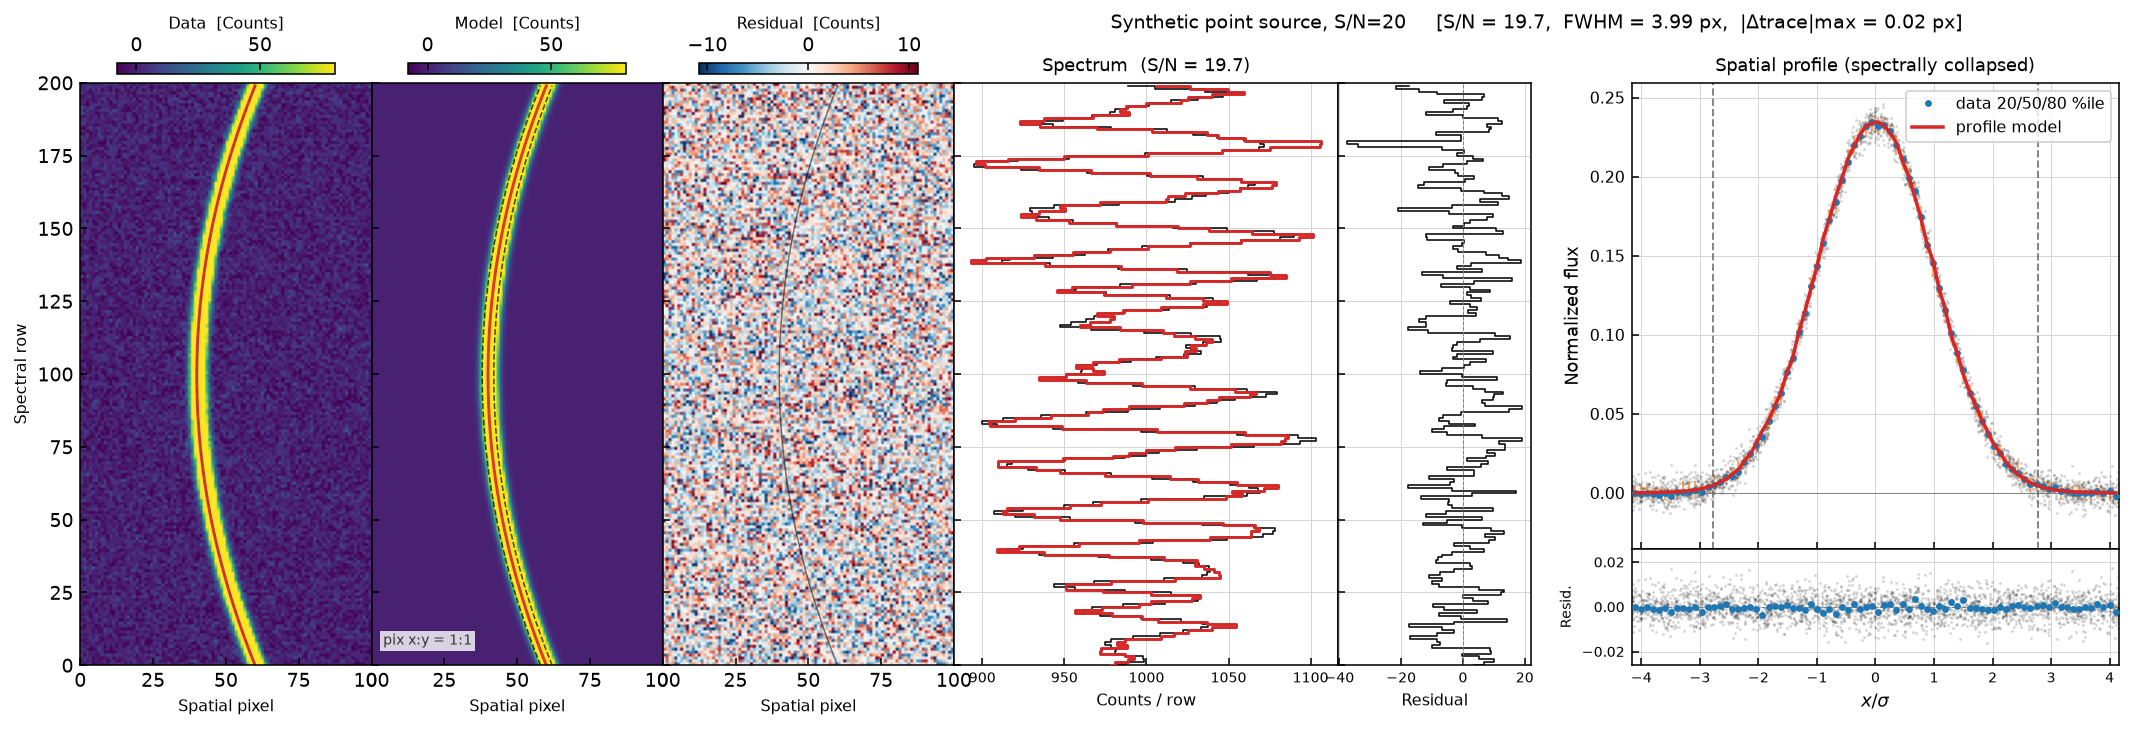
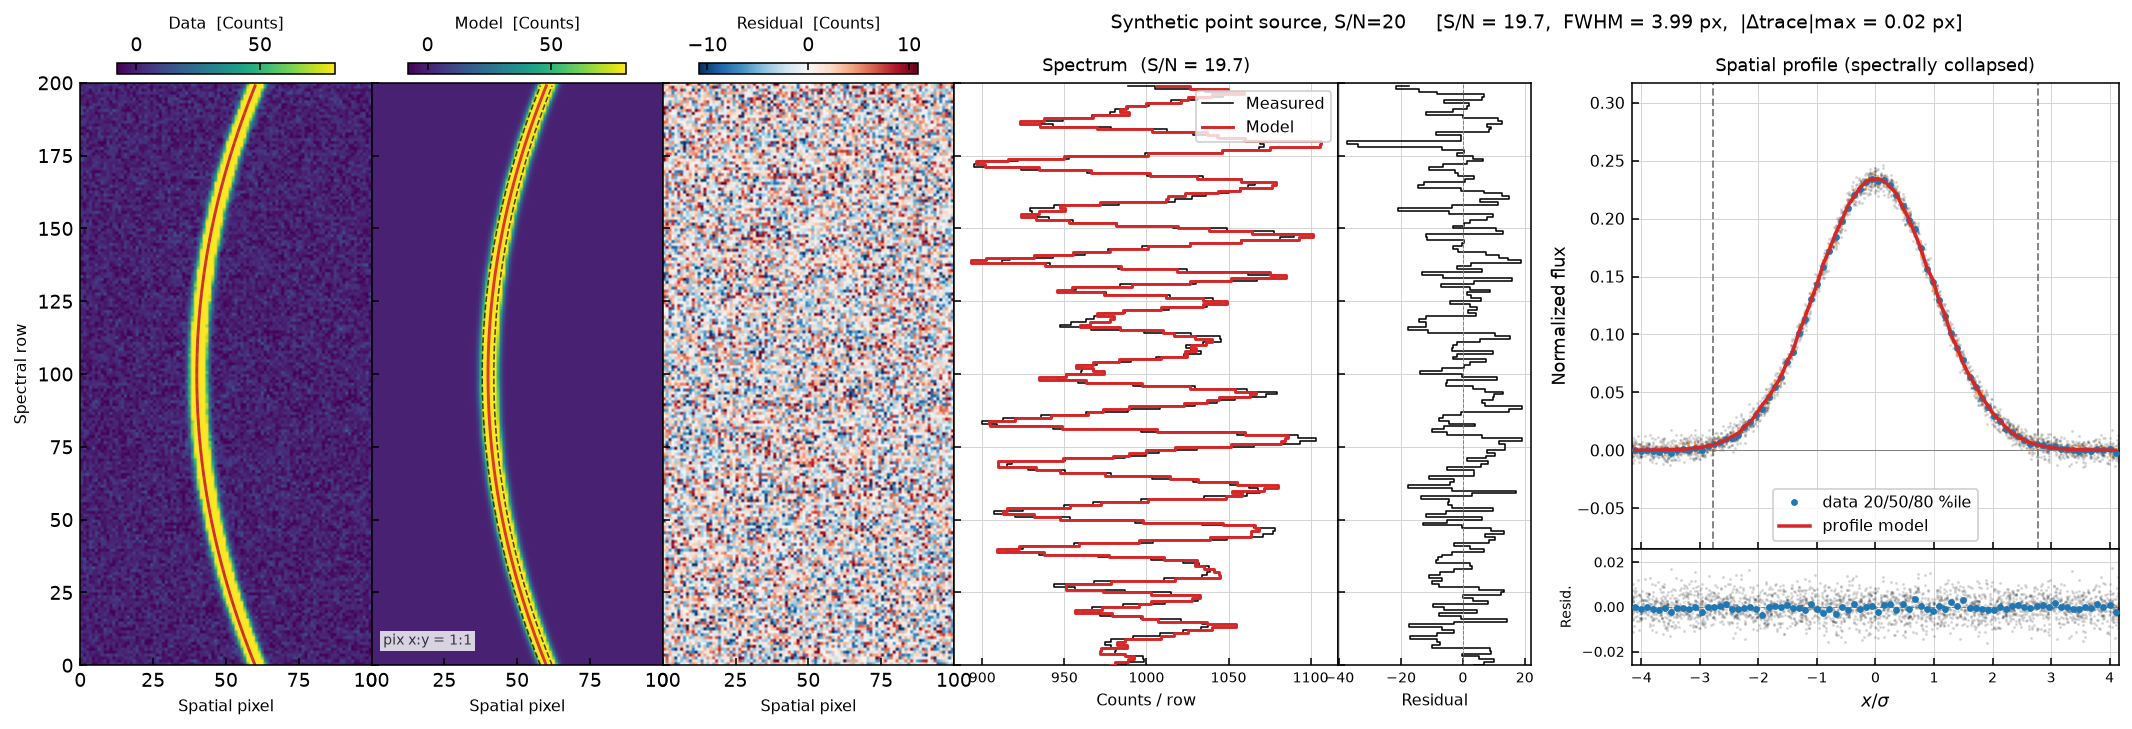
testing

diff --git a/pypeit/core/spatialprofile.py b/pypeit/core/spatialprofile.py
@@ -1298,7 +1298,6 @@ def _fit_profile_qa(
     ax_data.plot(trace_in, row_idx, '--', color='C0', lw=1.0, alpha=0.85)
     ax_data.plot(xnew,     row_idx, '-',  color='C3',  lw=1.5, alpha=0.90)
     ax_model.plot(xnew, row_idx, '-', color='C3', lw=1.5, alpha=0.90)
-    ax_resid.plot(xnew, row_idx, '-', color='k',   lw=0.8, alpha=0.50)
 
     ax_model.plot(xnew - fwhmfit / 2, row_idx, '--', color='black', lw=0.8, alpha=0.7)
     ax_model.plot(xnew + fwhmfit / 2, row_idx, '--', color='black', lw=0.8, alpha=0.7)
@@ -1307,13 +1306,14 @@ def _fit_profile_qa(
     # Spectrum panel
     # -----------------------------------------------------------------------
     ax_spec = fig.add_axes([spec_l, img_bot, spec_w, img_h], sharey=ax_data)
-    ax_spec.step(flux,     row_idx, color='k',   lw=0.8, where='mid', zorder=2)
-    ax_spec.step(opt_flux, row_idx, color='C3', lw=1.5, where='mid', zorder=3)
+    ax_spec.step(flux,     row_idx, color='k',   lw=0.8, where='mid', zorder=2, label='Measured')
+    ax_spec.step(opt_flux, row_idx, color='C3', lw=1.5, where='mid', zorder=3, label='Model')
     ax_spec.set_xlabel('Counts / row', fontsize=8)
     ax_spec.set_title(f'Spectrum  ({sn_str})', fontsize=9)
     ax_spec.tick_params(labelsize=7, labelleft=False)
     ax_spec.set_axisbelow(True)
     ax_spec.grid(True, color='lightgray', lw=0.5)
+    ax_spec.legend(fontsize=8, loc='upper right')
 
     # -----------------------------------------------------------------------
     # Spectrum residual panel
@@ -1343,19 +1343,25 @@ def _fit_profile_qa(
                          ms=2.5, zorder=4, label='data 20/50/80 %ile')
             ax_prof.plot(cx[finite], ym[finite], '-', color='C3',
                          lw=1.8, zorder=5, label='profile model')
+            prof_ylim = utils.growth_lim(np.append(ym[finite], y50[finite]), 0.99, fac=1.7,
+                midpoint='center'
+            )
+        else:
+            prof_ylim = utils.growth_lim(profile_x, 0.99, fac=1.7, midpoint='center')
 
     ax_prof.axhline(0, color='0.50', lw=0.5)
     if limits_set:
         ax_prof.axvline(l_limit, color='0.40', lw=1.0, ls='--', alpha=0.8)
         ax_prof.axvline(r_limit, color='0.40', lw=1.0, ls='--', alpha=0.8)
     ax_prof.set_xlim(prof_xlim_lo, prof_xlim_hi)
+    ax_prof.set_ylim(prof_ylim)
     ax_prof.set_ylabel('Normalized flux', fontsize=9)
     ax_prof.set_title('Spatial profile (spectrally collapsed)', fontsize=9)
     ax_prof.tick_params(labelsize=8, labelbottom=False)
     ax_prof.set_axisbelow(True)
     ax_prof.grid(True, color='lightgray', lw=0.5)
     if success:
-        ax_prof.legend(fontsize=8)
+        ax_prof.legend(fontsize=8, loc='lower center')
 
     # -----------------------------------------------------------------------
     # Profile residual panel

diff --git a/pypeit/utils.py b/pypeit/utils.py
@@ -614,7 +614,7 @@ def nan_mad_std(data, axis=None, func=None):
     return stats.mad_std(data, axis=axis, func=func, ignore_nan=True)
 
 
-def growth_lim(a, lim, fac=1.0, midpoint=None, default=[0., 1.]):
+def growth_lim(a, lim, fac=1.0, midpoint='median', default=[0., 1.]):
     """
     Calculate bounding limits for an array based on its growth.
 
@@ -627,9 +627,12 @@ def growth_lim(a, lim, fac=1.0, midpoint=None, default=[0., 1.]):
         fac (:obj:`float`, optional):
             Factor to increase the range based on the growth limits.
             Default is no increase.
-        midpoint (:obj:`float`, optional):
-            Force the midpoint of the range to be centered on this
-            value. Default is the sample median.
+        midpoint (:obj:`float`, :obj:`str`, optional):
+            Force the midpoint of the range to be centered on this value.  If
+            ``'median'``, the midpoint is set by the median of the unmasked
+            values in ``a``.  If ``'center'``, the center of the *range* of the
+            unmasked values of ``a`` is used.  Otherwise, the provided float
+            value used.
         default (:obj:`list`, optional):
             Default limits to return if `a` has no data.
 
@@ -654,7 +657,14 @@ def growth_lim(a, lim, fac=1.0, midpoint=None, default=[0., 1.]):
     Da = (_a[srt[end]] - _a[srt[start]]) * fac
 
     # Set the midpoint
-    mid = _a[srt[len(_a) // 2]] if midpoint is None else midpoint
+    if midpoint == 'median':
+        mid = _a[srt[len(_a) // 2]]
+    elif midpoint == 'center':
+        mid = (_a[srt[end]] + _a[srt[start]]) / 2
+    else:
+        mid = midpoint
+    if not isinstance(mid, (float, np.floating)):
+        raise PypeItError('midpoint must be a floating point value, "median", or "center".')
 
     # Return the range centered on the midpoint
     return [mid - Da / 2, mid + Da / 2]

diff --git a/doc/scripts/make_spatprof_figures.py b/doc/scripts/make_spatprof_figures.py
@@ -15,8 +15,6 @@ Run from the repo root after installing pypeit in development mode::
 from importlib import resources
 import os
 
-import matplotlib
-matplotlib.use('Agg')
 import numpy as np
 
 from pypeit.core import spatialprofile
